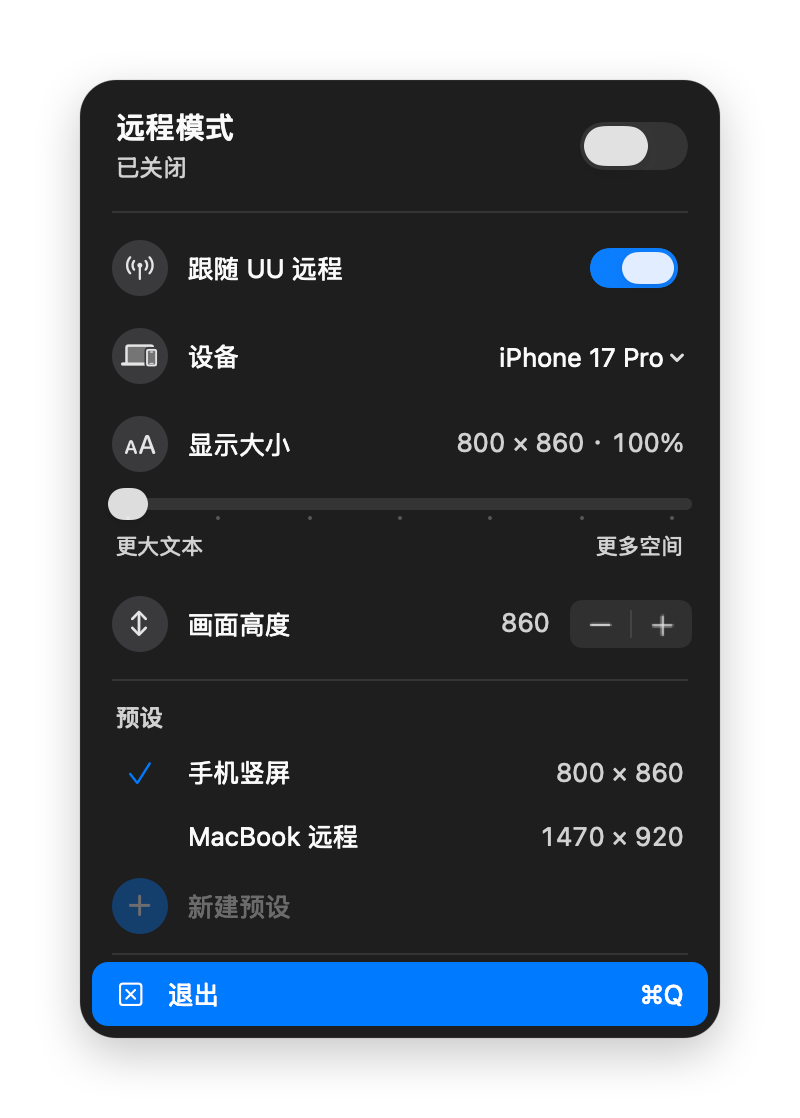
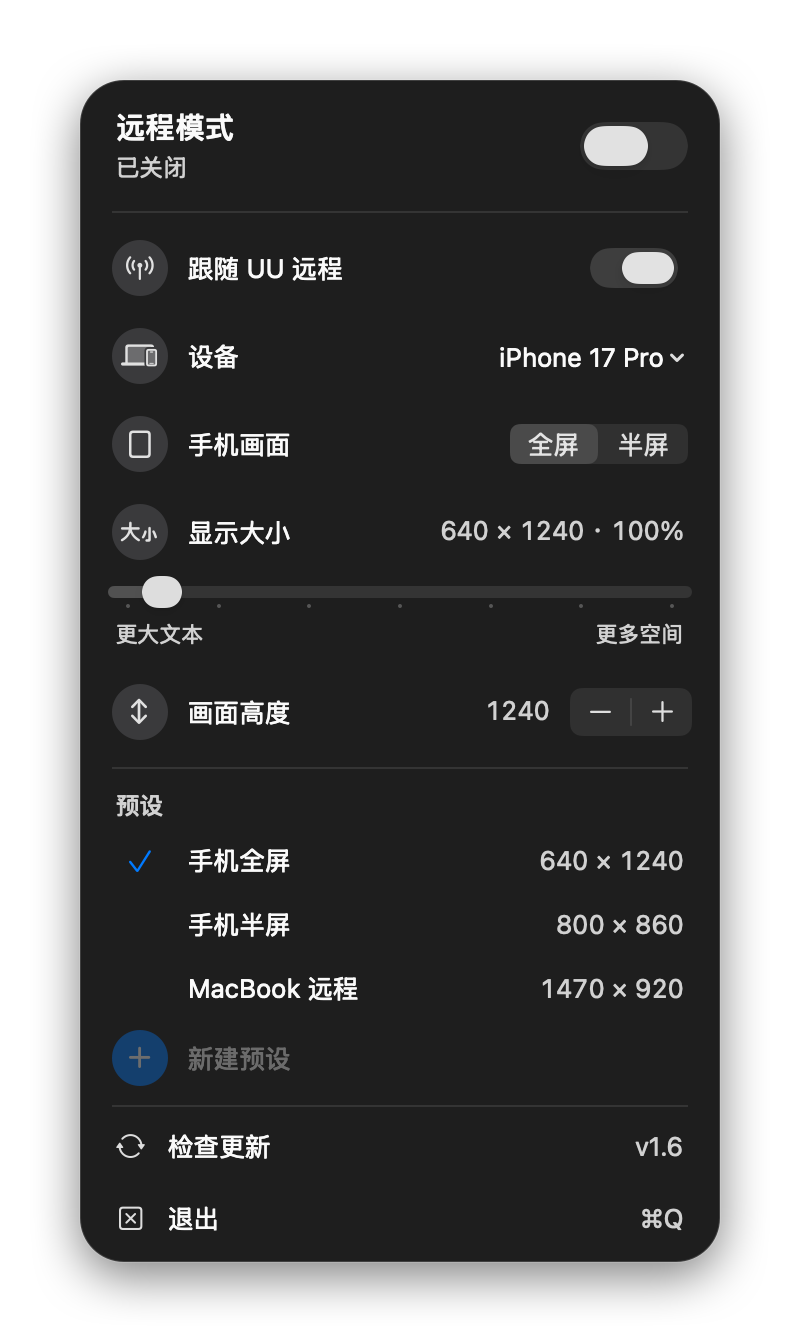
PhoneMode 1.6：手机画面可选全屏或半屏，默认全屏
面板新增「手机画面」一行：全屏铺满状态栏以下的整块屏幕，半屏下方留出输入法的位置
全屏的推荐宽度为半屏的 80%，切换时显示大小的比例不变
手机显示大小的可调范围扩大到宽 600、高 2400
README 示意图换成全屏画面，远程桌面左侧加程序坞；面板截图换成新界面

diff --git a/src/AppDelegate.m b/src/AppDelegate.m
@@ -22,6 +22,7 @@
 @property(strong) NSPopover *popover;
 @property(strong) FlipView *root, *presetBox;
 @property(strong) NSSwitch *power, *followUU;
+@property(strong) NSSegmentedControl *fullSeg;
 @property(strong) NSTextField *stateLabel, *sizeLabel, *heightLabel;
 @property(strong) NSPopUpButton *modelBtn;
 @property(strong) NSSlider *slider;
@@ -36,7 +37,7 @@
     int _model, _w, _h, _rebuilds;
     // 宽高比（高 ÷ 宽）。拖显示大小时保持不变；选机型、选预设、调画面高度时重算
     double _ratio;
-    BOOL _terminating;
+    BOOL _terminating, _full; // _full：手机画面全屏（铺满）还是半屏（留出输入法）
     CFAbsoluteTime _rebuildT0;
 }
 
@@ -93,20 +94,32 @@
 }
 
 - (void)load {
+    _full = [self.ud objectForKey:@"full"] ? [self.ud boolForKey:@"full"] : YES;
     _model = modelIndexByName([self.ud stringForKey:@"model"] ?: @"");
     if (_model < 0) {
         _model = DEFAULT_MODEL;
     }
-    _w = (int)[self.ud integerForKey:@"w"] ?: kModels[_model].w;
-    _h = (int)[self.ud integerForKey:@"h"] ?: kModels[_model].h;
+    _w = (int)[self.ud integerForKey:@"w"] ?: baseW(_model, _full);
+    _h = (int)[self.ud integerForKey:@"h"] ?: [self defaultH:_model w:_w];
     SizeRange r = sizeRange(_model);
     _w = MAX(r.wmin, MIN(r.wmax, _w));
     _h = MAX(r.hmin, MIN(r.hmax, _h));
     _ratio = (double)_h / _w;
 }
 
+// 设备宽度为 w 时的推荐高度：手机全屏时铺满整块屏，否则按设备推荐尺寸等比
+- (int)defaultH:(int)m w:(int)w {
+    if (_full && !modelIsDesktop(m)) {
+        return portraitH(m, w);
+    }
+    return (int)lround((double)w * kModels[m].h / kModels[m].w / STEP) * STEP;
+}
+
 - (void)save {
     [self.ud setObject:@(kModels[_model].name) forKey:@"model"];
+    if (!modelIsDesktop(_model)) {
+        [self.ud setObject:@(kModels[_model].name) forKey:@"lastPhone"];
+    }
     [self.ud setInteger:_w forKey:@"w"];
     [self.ud setInteger:_h forKey:@"h"];
 }
@@ -221,6 +234,18 @@ static void placeRight(NSView *v, CGFloat y, NSView *c, CGFloat right) {
     self.modelBtn.alignment = NSTextAlignmentRight;
     self.modelBtn.menu.delegate = self;
     placeRight(r, y, self.modelBtn, -4);
+
+    // 手机画面：全屏铺满，或半屏留出输入法。当前是电脑时点它会换回上次用的手机
+    y += ROW_H;
+    rowTitle(r, y, @"rectangle.portrait", NO, L(@"手机画面"));
+    self.fullSeg = [NSSegmentedControl segmentedControlWithLabels:@[ L(@"全屏"), L(@"半屏") ]
+                                                     trackingMode:NSSegmentSwitchTrackingSelectOne
+                                                           target:self
+                                                           action:@selector(fullClicked:)];
+    self.fullSeg.controlSize = NSControlSizeSmall;
+    [self.fullSeg sizeToFit];
+    self.fullSeg.toolTip = L(@"全屏：画面铺满手机屏幕。半屏：下面留出输入法的位置");
+    placeRight(r, y, self.fullSeg, 0);
 
     // 显示大小：标题行右侧是分辨率和相对机型推荐宽度的比例，下面一整条滑块，两端写方向
     y += ROW_H;
@@ -401,13 +426,15 @@ static void placeRight(NSView *v, CGFloat y, NSView *c, CGFloat right) {
 
     // 比例：相对机型推荐宽度，越大一屏放的内容越多
     self.sizeLabel.stringValue =
-        [NSString stringWithFormat:@"%d × %d · %ld%%", _w, _h, lround(_w * 100.0 / kModels[_model].w)];
+        [NSString stringWithFormat:@"%d × %d · %ld%%", _w, _h, lround(_w * 100.0 / baseW(_model, _full))];
     double lo, hi;
     [self sliderRange:&lo hi:&hi];
     self.slider.minValue = lo;
     self.slider.maxValue = hi;
     self.slider.doubleValue = _w;
     self.heightLabel.stringValue = [NSString stringWithFormat:@"%d", _h];
+    // 电脑不分全屏半屏，两段都不选
+    self.fullSeg.selectedSegment = modelIsDesktop(_model) ? -1 : _full ? 0 : 1;
 
     NSInteger match = [self matchingPreset];
     for (NSUInteger i = 0; i < self.presetRows.count; i++) {
@@ -431,7 +458,8 @@ static void placeRight(NSView *v, CGFloat y, NSView *c, CGFloat right) {
         [[NSMutableAttributedString alloc] initWithString:it.title
                                                attributes:@{NSFontAttributeName : f, NSParagraphStyleAttributeName : ps}];
     [as appendAttributedString:[[NSAttributedString alloc]
-                                   initWithString:[NSString stringWithFormat:@"\t%d × %d", kModels[i].w, kModels[i].h]
+                                   initWithString:[NSString stringWithFormat:@"\t%d × %d", baseW(i, _full),
+                                                                             [self defaultH:i w:baseW(i, _full)]]
                                        attributes:@{
                                            NSFontAttributeName : [NSFont monospacedDigitSystemFontOfSize:f.pointSize - 1
                                                                                                  weight:NSFontWeightRegular],
@@ -553,7 +581,24 @@ static CFAbsoluteTime lastApply;
         return;
     }
     int m = (int)it.tag;
-    [self useModel:m w:kModels[m].w h:kModels[m].h];
+    [self useModel:m w:baseW(m, _full) h:[self defaultH:m w:baseW(m, _full)]];
+}
+
+// 全屏、半屏：显示大小的百分比不变，宽高换成对应的推荐尺寸。当前是电脑时换回上次用的手机
+- (void)fullClicked:(NSSegmentedControl *)s {
+    double pct = (double)_w / baseW(_model, _full);
+    _full = s.selectedSegment == 0;
+    [self.ud setBool:_full forKey:@"full"];
+    if (!modelIsDesktop(_model)) {
+        int w = (int)lround(baseW(_model, _full) * pct / STEP) * STEP;
+        [self useModel:_model w:w h:[self defaultH:_model w:w]];
+        return;
+    }
+    int m = modelIndexByName([self.ud stringForKey:@"lastPhone"] ?: @"");
+    if (m < 0 || modelIsDesktop(m)) {
+        m = DEFAULT_MODEL;
+    }
+    [self useModel:m w:baseW(m, _full) h:[self defaultH:m w:baseW(m, _full)]];
 }
 
 - (void)applyPreset:(NSInteger)i {

diff --git a/src/PhoneModels.h b/src/PhoneModels.h
@@ -19,10 +19,10 @@ extern const int kModelCount;
 #define DEFAULT_MODEL 3
 
 // 虚拟屏宽高的总范围和步进（点）。手机、电脑各自的范围见 sizeRange
-#define WMIN 800
+#define WMIN 600
 #define WMAX 2560
 #define HMIN 500
-#define HMAX 1600
+#define HMAX 2400
 #define STEP 10
 
 typedef struct {
@@ -33,6 +33,12 @@ typedef struct {
 BOOL modelIsDesktop(int m);
 // 这个设备能调到的宽高范围；m 小于 0 时返回总范围
 SizeRange sizeRange(int m);
+// 手机全屏时的推荐宽度是半屏的 80%：画面铺满时字要更大一些（Pura X View 实测 980 的 80%）
+#define FULL_SCALE 0.8
+// 推荐宽度，显示大小的 100%：电脑和手机半屏取表里的 w，手机全屏再乘 FULL_SCALE
+int baseW(int m, BOOL full);
+// 竖屏：宽度为 w 时，画面占满状态栏以下、手势条以上整块屏幕的高度（不给输入法留位置）。电脑返回推荐高度按 w 等比
+int portraitH(int m, int w);
 
 // 按名称找型号，找不到返回 -1
 int modelIndexByName(NSString *n);

diff --git a/src/PhoneModels.m b/src/PhoneModels.m
@@ -67,7 +67,21 @@ SizeRange sizeRange(int m) {
     if (m < 0 || m >= NMODEL) {
         return (SizeRange){WMIN, WMAX, HMIN, HMAX};
     }
-    return modelIsDesktop(m) ? (SizeRange){1200, 2560, 700, 1600} : (SizeRange){800, 1400, 500, 1600};
+    return modelIsDesktop(m) ? (SizeRange){1200, 2560, 700, 1600} : (SizeRange){600, 1400, 500, 2400};
+}
+
+int baseW(int m, BOOL full) {
+    if (!full || modelIsDesktop(m)) {
+        return kModels[m].w;
+    }
+    return (int)lround(kModels[m].w * FULL_SCALE / STEP) * STEP;
+}
+
+int portraitH(int m, int w) {
+    const Model *d = &kModels[m];
+    double r = modelIsDesktop(m) ? (double)d->h / d->w : (d->hmm - d->top - d->bottom) / d->wmm;
+    SizeRange sr = sizeRange(m);
+    return MAX(sr.hmin, MIN(sr.hmax, (int)lround(w * r / STEP) * STEP));
 }
 
 int modelIndexByName(NSString *n) {

diff --git a/README.en.md b/README.en.md
@@ -12,23 +12,24 @@ Control a computer from your phone and the wide landscape screen shrinks into a 
 
 PhoneMode creates a virtual display as the main screen, sized for the device you're controlling from:
 
-- **Sized for your device**: pick your phone by brand and model, and the screen fits exactly between the status bar and the keyboard. For a computer, pick a 13-inch laptop or a 27-inch monitor, and the screen fills it with no black bars
+- **Sized for your device**: pick your phone by brand and model. By default the screen fills everything below the status bar; switch to Half when you need to type, and it fits exactly between the status bar and the keyboard. For a computer, pick a 13-inch laptop or a 27-inch monitor, and the screen fills it with no black bars
 - **Follows UU Remote**: turns on when NetEase UU Remote connects, and turns off about 6 seconds after it disconnects, restoring your original resolution
-- **Fine-tune on the fly**: drag Display Size to scale everything, or shorten Screen Height to make room for the keyboard
+- **Fine-tune on the fly**: drag Display Size to scale everything, or change Screen Height on its own
 - **Presets**: save a size as a preset and switch to it with one click. Switching between phone and computer doesn't drop the remote session
 
-<p align="center"><img src="docs/remote-diagram.jpg" width="100%" alt="The Mac screen shown at the phone's aspect ratio, filling the area above the keyboard"></p>
+<p align="center"><img src="docs/remote-diagram.jpg" width="100%" alt="The Mac screen shown at the phone's aspect ratio, filling the whole phone screen"></p>
 
 ## Usage
 
-<p align="center"><picture><source media="(prefers-color-scheme: dark)" srcset="docs/screenshot-dark.png"><img src="docs/screenshot-light.png" width="300" alt="The menu bar panel: switch, device, display size, screen height and presets"></picture></p>
+<p align="center"><picture><source media="(prefers-color-scheme: dark)" srcset="docs/screenshot-dark.png"><img src="docs/screenshot-light.png" width="300" alt="The menu bar panel: switch, device, phone screen, display size, screen height and presets"></picture></p>
 
 1. Click the line-chart icon in the menu bar to open the panel. A hollow box means off; a filled box means on
 2. Under "Device", pick what you're controlling from: your phone model, or a laptop or monitor
-3. "Follow UU Remote" is on by default, so PhoneMode switches as soon as UU connects. You can also use the switch at the top
-4. If the text is too big or too small, drag "Display Size". If the keyboard covers the bottom of the screen, click − next to "Screen Height"
-5. When it looks right, click "New Preset" to save it. Double-click a preset to rename it; right-click to overwrite it with the current size or delete it
-6. Click "Quit" or press ⌘Q to restore your displays
+3. On a phone, pick Full or Half under "Phone Screen": Full for viewing, Half when you need to type, leaving room for the keyboard at the bottom
+4. "Follow UU Remote" is on by default, so PhoneMode switches as soon as UU connects. You can also use the switch at the top
+5. If the text is too big or too small, drag "Display Size". If the keyboard covers the bottom of the screen, click − next to "Screen Height"
+6. When it looks right, click "New Preset" to save it. Double-click a preset to rename it; right-click to overwrite it with the current size or delete it
+7. Click "Quit" or press ⌘Q to restore your displays
 
 ## Install
 

diff --git a/README.md b/README.md
@@ -12,23 +12,24 @@
 
 远程模式建一块虚拟屏当主屏，尺寸按控制端算好：
 
-- **按设备算尺寸**：手机按品牌和型号选，画面刚好是状态栏以下、输入法以上那块。电脑可以选 13 英寸笔记本或 27 英寸显示器，铺满不留黑边
+- **按设备算尺寸**：手机按品牌和型号选，默认全屏，画面铺满状态栏以下整块屏幕；要打字时切到半屏，画面刚好是状态栏以下、输入法以上那块。电脑可以选 13 英寸笔记本或 27 英寸显示器，铺满不留黑边
 - **跟随 UU 远程**：网易 UU 远程连上自动开启，断开约 6 秒后自动关闭，回到原来的分辨率
-- **随手微调**：拖「显示大小」整体放大缩小，用「画面高度」单独调矮，给输入法让位置
+- **随手微调**：拖「显示大小」整体放大缩小，用「画面高度」单独调高调矮
 - **预设**：调好的尺寸存成预设，点一下就切过去。手机和电脑之间切换时，远程画面不断
 
-<p align="center"><img src="docs/remote-diagram.jpg" width="100%" alt="电脑画面按手机比例显示，手机上刚好填满输入法上方"></p>
+<p align="center"><img src="docs/remote-diagram.jpg" width="100%" alt="电脑画面按手机比例显示，手机上铺满整块屏幕"></p>
 
 ## 使用
 
-<p align="center"><picture><source media="(prefers-color-scheme: dark)" srcset="docs/screenshot-dark.png"><img src="docs/screenshot-light.png" width="300" alt="菜单栏面板：开关、设备、显示大小、画面高度和预设"></picture></p>
+<p align="center"><picture><source media="(prefers-color-scheme: dark)" srcset="docs/screenshot-dark.png"><img src="docs/screenshot-light.png" width="300" alt="菜单栏面板：开关、设备、手机画面、显示大小、画面高度和预设"></picture></p>
 
 1. 点菜单栏的折线图标打开面板。方框空心是关闭，实心是开启
 2. 在「设备」里选控制端：用手机远程就选手机型号，用电脑远程就选笔记本或显示器
-3. 「跟随 UU 远程」默认打开，UU 连上就自动切换。也可以用顶部的开关手动开关
-4. 字太大或太小，拖「显示大小」。画面底部被输入法挡住，点「画面高度」的 −
-5. 调好后点「新建预设」存下来。双击预设能改名，右键能用当前尺寸覆盖或删除
-6. 点「退出」或按 ⌘Q，显示器恢复原样
+3. 用手机远程时，在「手机画面」里选全屏或半屏：只看不打字选全屏，要打字选半屏，下面留出输入法的位置
+4. 「跟随 UU 远程」默认打开，UU 连上就自动切换。也可以用顶部的开关手动开关
+5. 字太大或太小，拖「显示大小」。画面底部被输入法挡住，点「画面高度」的 −
+6. 调好后点「新建预设」存下来。双击预设能改名，右键能用当前尺寸覆盖或删除
+7. 点「退出」或按 ⌘Q，显示器恢复原样
 
 ## 安装
 

diff --git a/CHANGELOG.md b/CHANGELOG.md
@@ -1,5 +1,11 @@
 # 更新记录
 
+## 1.6
+
+1. 新增「手机画面」，用手机远程时可选全屏或半屏，默认全屏：全屏时画面铺满状态栏以下的整块屏幕，半屏时下方留出输入法的位置。
+2. 全屏的推荐宽度为半屏的 80%，铺满时文字更大；切换全屏、半屏时，显示大小的比例保持不变。
+3. 手机的显示大小可调范围扩大到最窄 600、最高 2400，以适配全屏的竖长画面。
+
 ## 1.5
 
 1. 界面支持英文：系统语言是中文时显示中文，其他语言显示英文，设备菜单里的型号名也跟着翻译。
